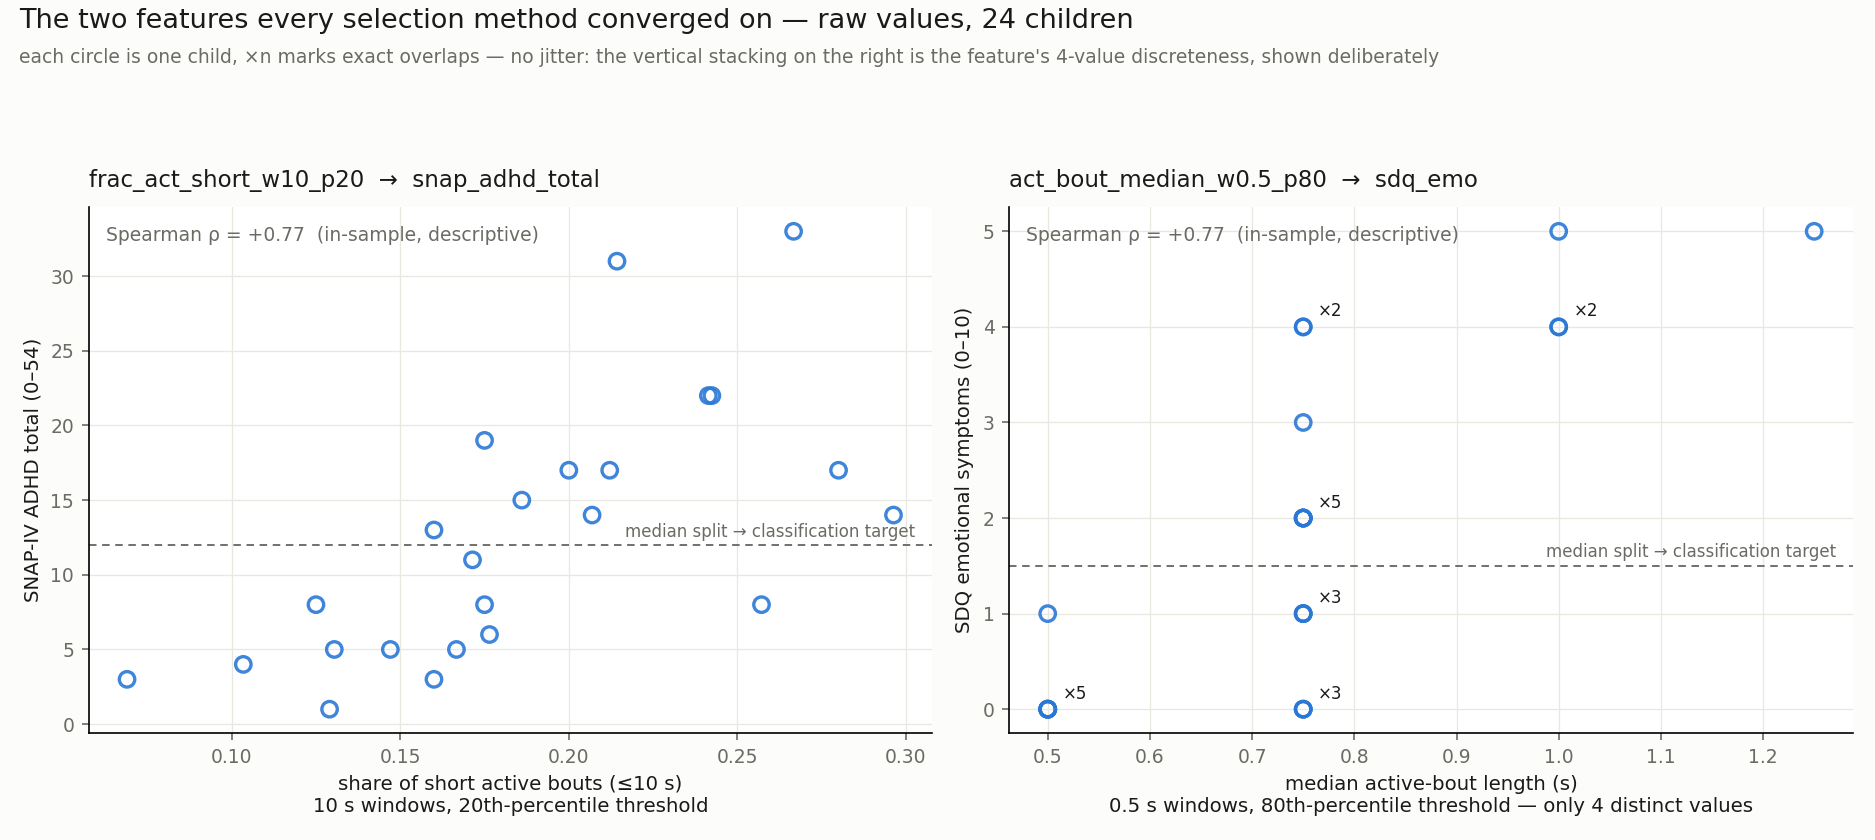
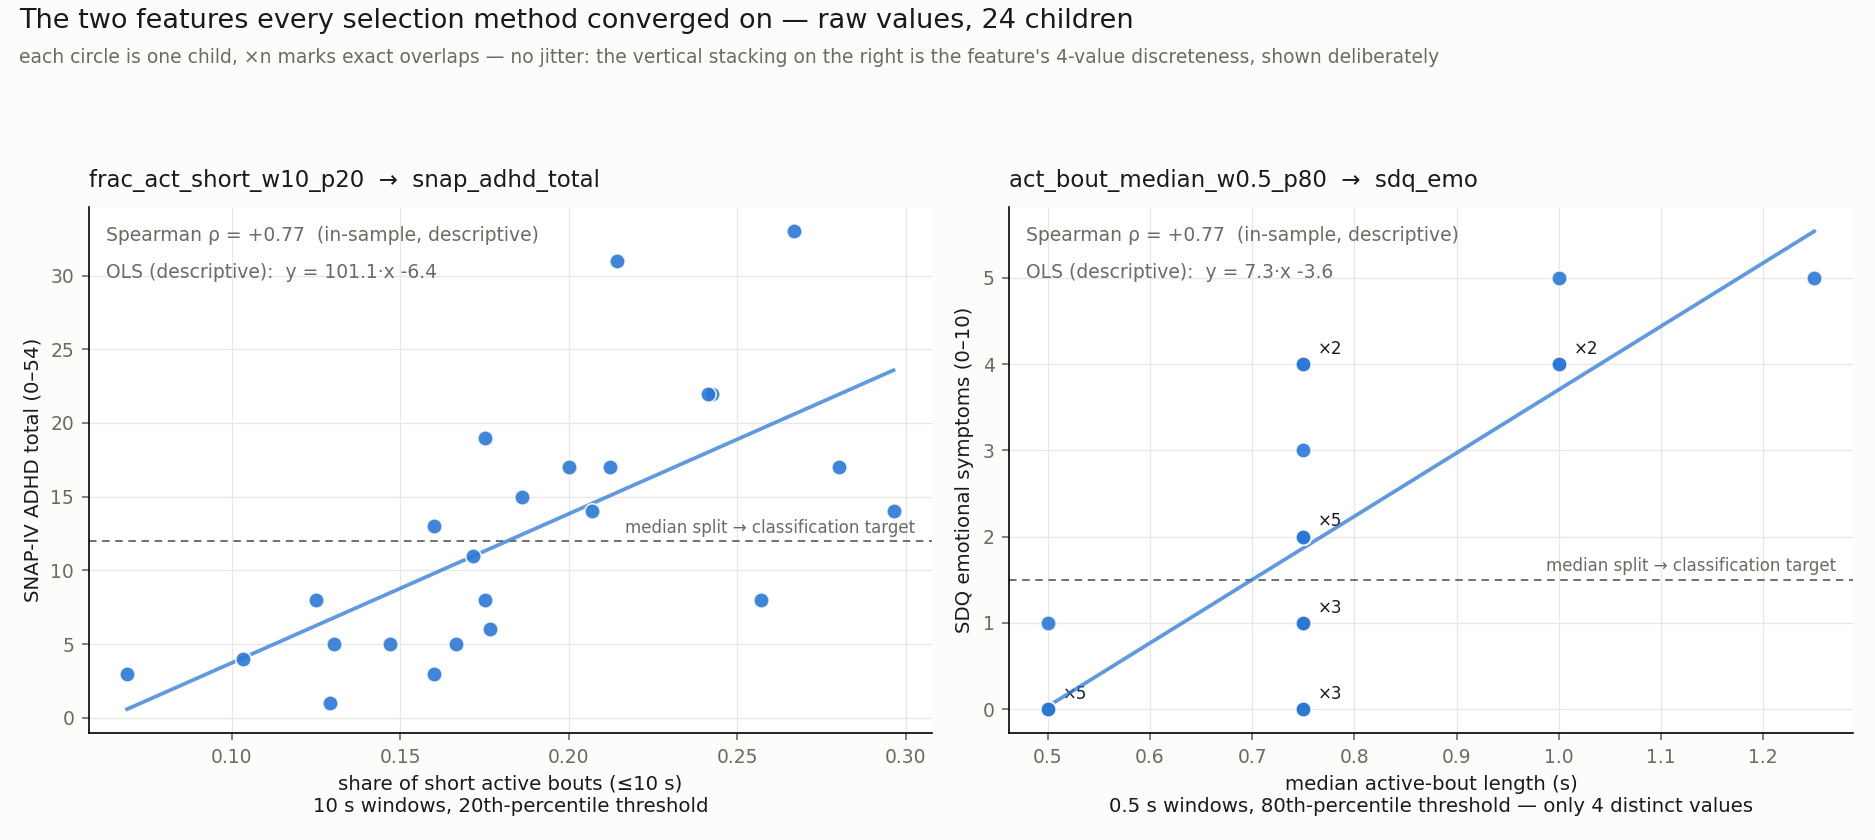
74c: filled markers and descriptive OLS lines with slope/intercept
User request: solid points instead of hollow, plus the least-squares
line per panel with its equation annotated (y = 101.1x - 6.4 for the
SNAP panel, y = 7.3x - 3.6 for the SDQ panel), both labeled
descriptive.

diff --git a/analysis/74c_carrier_scatter.py b/analysis/74c_carrier_scatter.py
@@ -20,6 +20,7 @@ import pathlib
 import matplotlib
 matplotlib.use("Agg")
 import matplotlib.pyplot as plt
+import numpy as np
 import pandas as pd
 from scipy.stats import spearmanr
 
@@ -54,13 +55,19 @@ for ax, p in zip(axes, PANELS):
                 xy=(0.98, med), xycoords=("axes fraction", "data"),
                 xytext=(0, 4), textcoords="offset points",
                 ha="right", fontsize=8, color=MUTED)
-    ax.scatter(x, y, s=55, facecolors="none", edgecolors=BLUE,
-               linewidths=1.6, alpha=0.9)
+    ax.scatter(x, y, s=55, color=BLUE, edgecolors="white",
+               linewidths=0.8, alpha=0.9, zorder=5)
     dup = pd.DataFrame({"x": x, "y": y}).value_counts()
     for (xi, yi), n in dup.items():
         if n > 1:
             ax.annotate(f"×{n}", xy=(xi, yi), xytext=(7, 5),
                         textcoords="offset points", fontsize=8, color=INK)
+    w, b = np.polyfit(x, y, 1)
+    xs = np.array([x.min(), x.max()])
+    ax.plot(xs, w * xs + b, color=BLUE, lw=1.8, alpha=0.75, zorder=4)
+    ax.annotate(f"OLS (descriptive):  y = {w:.1f}·x {b:+.1f}",
+                xy=(0.02, 0.895), xycoords="axes fraction", va="top",
+                fontsize=9, color=MUTED)
     ax.set_xlabel(p["ftext"], fontsize=9.5, color=INK)
     ax.set_ylabel(p["ttext"], fontsize=9.5, color=INK)
     ax.set_title(f"{p['feat']}  →  {p['target']}",
